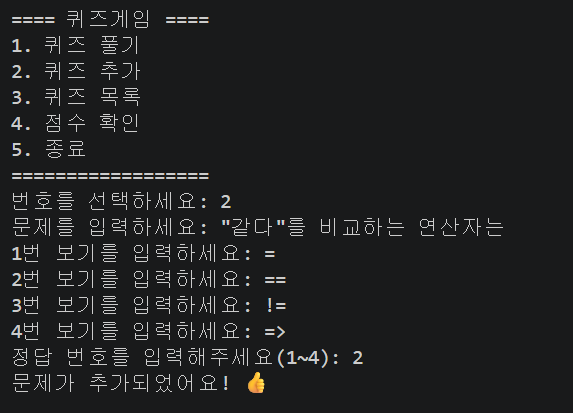
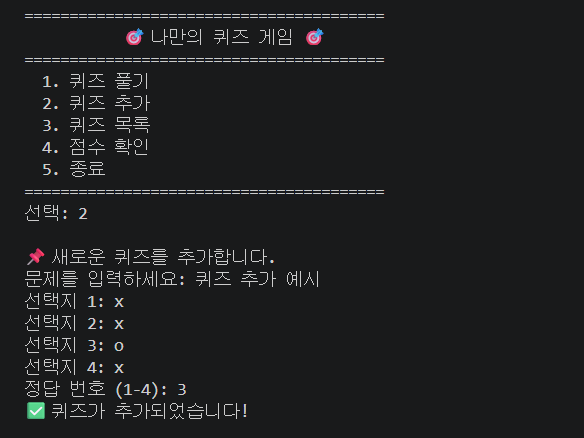
Docs: 최신 실행 화면·Git 스크린샷 추가 및 README 재정리
- 리팩터링 후 실행 화면(menu/play/result/add/list/score/exit) 교체
- 잘못된 입력 처리, 커밋 그래프, clone/pull, 개발환경 스크린샷 추가
- README에 섹션별 이미지 배치 및 파일 구조 갱신
- 미사용 save.png 제거

Claude-Session: https://claude.ai/code/session_013VcVtNTHMV7trkSeCMQrBz

diff --git a/README.md b/README.md
@@ -36,13 +36,9 @@ python main.py
 
 > 환경에 따라 `python3 main.py` 로 실행합니다.
 
-실행하면 아래 메뉴가 나타납니다.
-
-![메뉴 화면](docs/screenshots/menu.png)
-
 ---
 
-## ✨ 기능 목록
+## ✨ 기능 목록 및 실행 화면
 
 | 번호 | 기능 | 설명 |
 |------|------|------|
@@ -52,25 +48,33 @@ python main.py
 | 4 | 점수 확인 | 최고 점수와 최근 점수를 확인합니다. |
 | 5 | 종료 | 데이터를 저장하고 프로그램을 종료합니다. |
 
-**퀴즈 풀기**
+**메뉴 화면** — 실행 시 저장된 데이터를 불러옵니다.
+
+![메뉴 화면](docs/screenshots/menu.png)
+
+**① 퀴즈 풀기**
 
 ![퀴즈 풀기](docs/screenshots/play.png)
 
-**퀴즈 추가**
+**결과 화면** — 모든 문제를 풀면 점수와 최고 점수 갱신 여부를 표시합니다.
+
+![결과 화면](docs/screenshots/result.png)
+
+**② 퀴즈 추가**
 
 ![퀴즈 추가](docs/screenshots/add_quiz.png)
 
-**퀴즈 목록**
+**③ 퀴즈 목록**
 
 ![퀴즈 목록](docs/screenshots/quiz_list.png)
 
-**점수 확인**
+**④ 점수 확인**
 
 ![점수 확인](docs/screenshots/score.png)
 
-**자동 저장 / 불러오기** — 종료 시 저장되고, 실행 시 불러옵니다.
+**⑤ 종료**
 
-![저장](docs/screenshots/save.png)
+![종료](docs/screenshots/exit.png)
 
 ### 메뉴·입력 안내 (유효성 규칙)
 
@@ -81,6 +85,8 @@ python main.py
 - **허용 범위 밖**(메뉴에서 9, 정답에서 0 등) → `⚠ 범위를 벗어났습니다...`
 - 입력 앞뒤 **공백은 자동 제거** 후 처리합니다.
 - 실행 중 **`Ctrl+C`(KeyboardInterrupt)** 나 **입력 종료(EOF)** 가 발생해도 비정상 종료하지 않고, 안내 후 **저장하고 안전하게 종료**합니다.
+
+![잘못된 입력 처리](docs/screenshots/play_invalid.png)
 
 ---
 
@@ -127,13 +133,20 @@ E1-2/
 ├── README.md            # 프로젝트 설명 문서
 ├── .gitignore           # Git 추적 제외 설정 (__pycache__ 등)
 └── docs/
-    └── screenshots/     # 실행 화면 캡처
-        ├── menu.png
-        ├── play.png
-        ├── add_quiz.png
-        ├── quiz_list.png
-        ├── score.png
-        └── save.png
+    └── screenshots/     # 실행 화면·Git 캡처
+        ├── menu.png          # 메뉴
+        ├── play.png          # 퀴즈 풀기
+        ├── play_invalid.png  # 잘못된 입력 처리
+        ├── result.png        # 결과 화면
+        ├── add_quiz.png      # 퀴즈 추가
+        ├── quiz_list.png     # 퀴즈 목록
+        ├── score.png         # 점수 확인
+        ├── exit.png          # 종료
+        ├── git_graph.png     # 커밋 그래프
+        ├── clone.png         # clone 실습
+        ├── pull.png          # pull 실습
+        ├── env_python.png    # Python 버전
+        └── env_git.png       # git 버전
 ```
 
 ---
@@ -193,27 +206,38 @@ E1-2/
 | `Refactor:` | 구조 개선 | `Refactor: QuizGame 책임 분리` |
 | `Docs:` | 문서 | `Docs: README 실행 방법 추가` |
 
-### 사용한 Git 명령어
+### 커밋 그래프 (브랜치 생성·병합)
+
+`feature/oop-refactor` 브랜치에서 클래스 리팩터링 작업 후 `main`으로 병합했습니다.
+
+![커밋 그래프](docs/screenshots/git_graph.png)
+
+### clone / pull 실습
 
 `init`, `add`, `commit`, `push`, `pull`, `checkout`, `clone` 7종을 모두 사용했습니다.
-
-**clone / pull 실습**
 
 ```bash
 # 저장소를 별도 폴더에 복제
 git clone https://github.com/JINU7789/E1-2.git E1-2-clone
+cd E1-2-clone
 
 # 복제본에서 변경 후 커밋/푸시
-cd E1-2-clone
-# (README에 한 줄 추가 등)
 git add .
-git commit -m "Docs: clone 실습 변경"
+git commit -m "Docs: clone/pull 실습용 한 줄 추가"
 git push
 
 # 기존 작업 폴더에서 변경사항 가져오기
 cd ../E1-2
 git pull
 ```
+
+**clone 실행**
+
+![clone 실습](docs/screenshots/clone.png)
+
+**pull 실행** — 변경사항이 Fast-forward로 반영됩니다.
+
+![pull 실습](docs/screenshots/pull.png)
 
 ---
 
@@ -243,7 +267,10 @@ git pull
 
 ## 🧰 개발 환경
 
-- Python 3.10 이상
+- **Python 3.12.3** (요구: 3.10 이상)
+- **git 2.43.0**
 - 외부 라이브러리 없이 표준 라이브러리만 사용 (`json`, `os`, `shutil`)
 
-- clone/pull 실습 확인
+![Python 버전](docs/screenshots/env_python.png)
+
+![git 버전](docs/screenshots/env_git.png)
